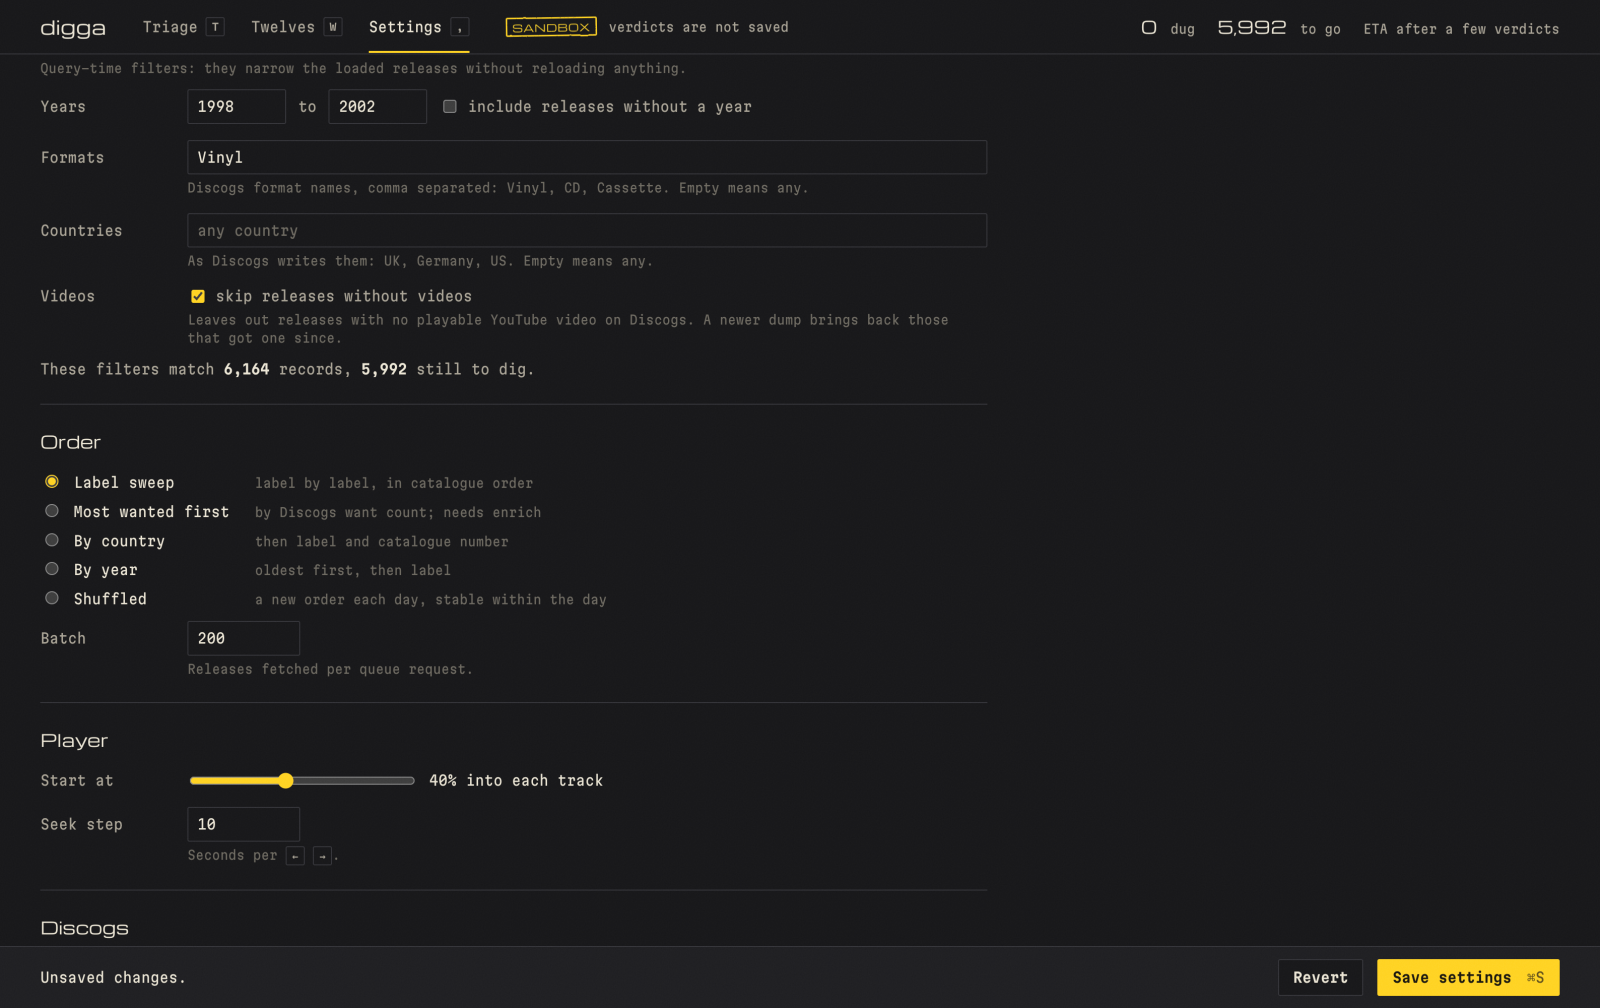
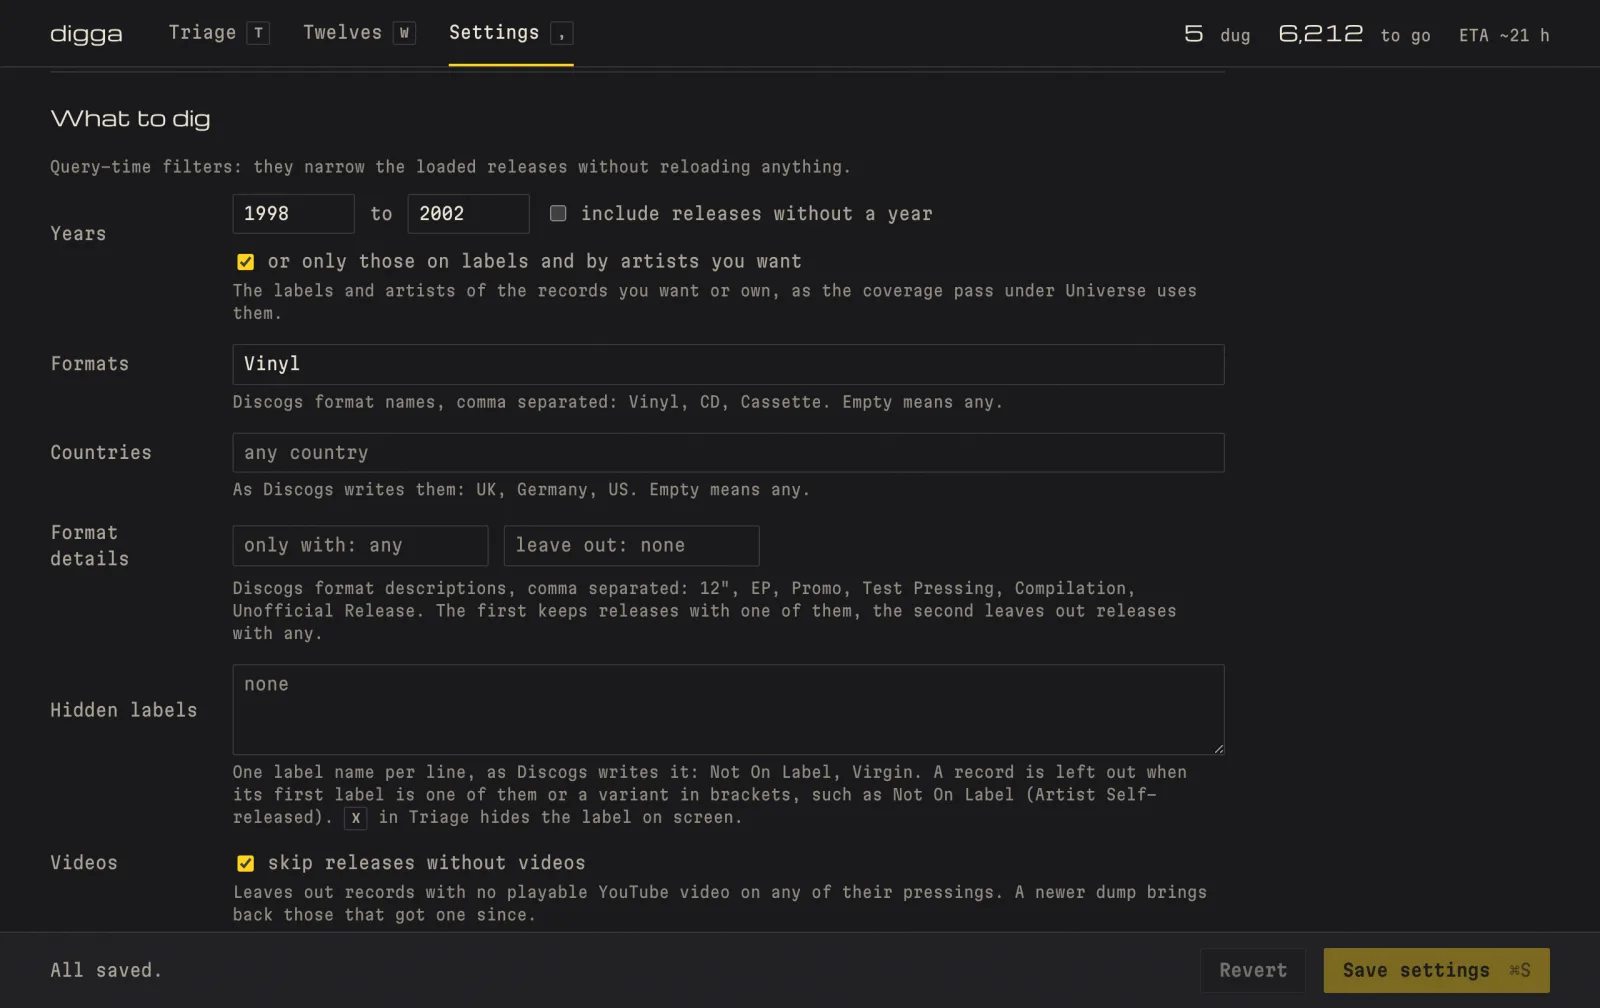
Show the current app and the setup in the README

diff --git a/README.md b/README.md
@@ -27,7 +27,7 @@ through, at a position you choose, and the next track and the next release are p
 listen. Mark a
 record as a want, skip it, flag a grail, or leave it for later. Undo walks back through your session.
 
-![Triage: release details and tracklist beside the player, with verdict keys along the bottom](docs/assets/screenshots/triage.webp)
+![Triage: The Code by Absolute Zero + Subphonics on Renegade Hardware playing, its tracklist and other videos beside the player, the last verdict on the slip, and the verdict keys along the bottom](docs/assets/screenshots/triage.webp)
 
 | Key       | Action                                                  |
 | --------- | ------------------------------------------------------- |
@@ -55,7 +55,7 @@ and collection. Filter and sort the shelves, add notes, change a verdict, or ret
 records for another listen. The Tracks shelf lists every track you marked grail or keep, with a
 note of its own.
 
-![Twelves: a record list with catalogue numbers, artists, titles, labels, and wantlist or owned stamps](docs/assets/screenshots/twelves.webp)
+![Twelves: the shelves, then records with their stamps: a grail with its note and price, a snoozed record, and records from the Discogs wantlist and collection](docs/assets/screenshots/twelves.webp)
 
 With sandbox mode off and your Discogs account configured, `A` and `C` add a record to your Discogs
 wantlist, with the tracks you marked and your note as the want's note. A grail stays a grail in
@@ -71,7 +71,7 @@ back. Sweep label by label in catalogue order,
 browse by country or year, or use a daily shuffle. Set where playback starts and how far
 the seek keys jump.
 
-![Settings: year and format filters, queue ordering, and playback controls](docs/assets/screenshots/settings.webp)
+![Settings: what to dig, with years, formats, countries, format details, hidden labels, and whether to skip releases without videos](docs/assets/screenshots/settings.webp)
 
 Imports of your collection, wantlist, and browser history can keep records you already know out
 of the queue. The session counter shows how many you have judged, how many remain, and an estimated
@@ -128,6 +128,10 @@ A new library opens the setup, which takes about 20 minutes, most of it waiting:
 4. **Fill the crate.** The load reads the dump while it downloads, and keeps the releases in your
    styles and years. It takes 15 to 20 minutes, but records arrive from the first seconds:
    "Start digging" lights up once 500 wait, and the header shows the load while you dig.
+
+![The setup's Pick your sound step: a style suggested from the Discogs wantlist, a style search, the years over a histogram of their releases, and an estimate of the library's size](docs/assets/screenshots/setup-sound.webp)
+
+![The setup's Fill the crate step: the download and the read, the releases kept so far and the records to dig, the years filling in, and Start digging](docs/assets/screenshots/setup-crate.webp)
 
 The setup turns sandbox mode off, so your verdicts are kept from the first one. "Practice on five
 records first" digs five records in the sandbox before that.
